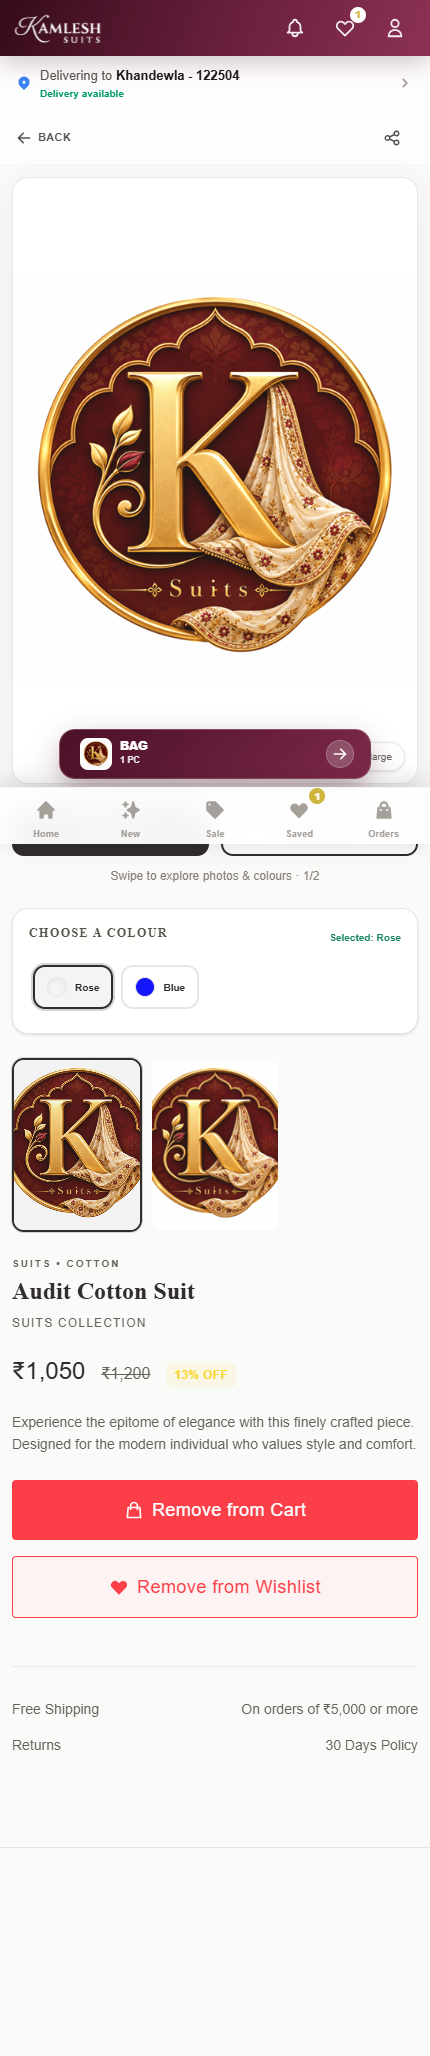
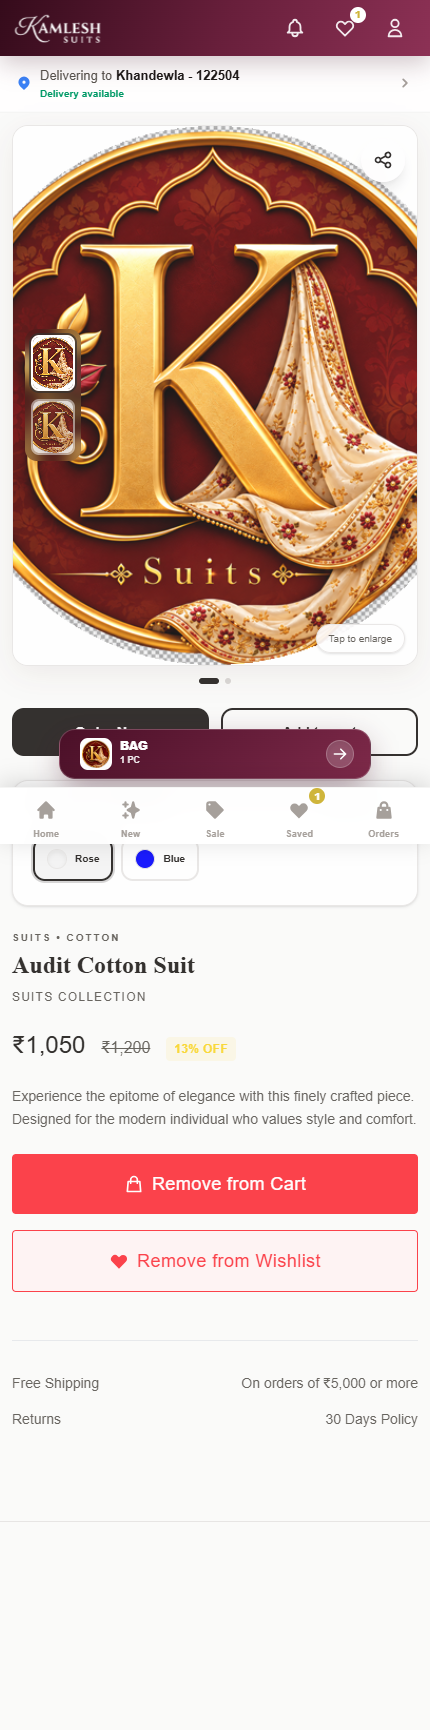
Update branding and mobile product gallery

diff --git a/src/pages/ProductDetails.jsx b/src/pages/ProductDetails.jsx
@@ -139,6 +139,7 @@ const ProductDetailsContent = ({ id }) => {
   };
 
   const galleryItems = getGalleryItems();
+  const activeGalleryIndex = Math.max(0, galleryItems.findIndex(item => item.src === selectedImage));
   const selectGalleryImage = index => {
     const item = galleryItems[index];
     if (!item) return;
@@ -171,7 +172,11 @@ const ProductDetailsContent = ({ id }) => {
   const handleColorSelect = color => {
     const variant = product?.variants?.find(item => item.colorName === color);
     setSelectedColor(color);
-    if (variant?.images?.[0]) setSelectedImage(variant.images[0]);
+    if (variant?.images?.[0]) {
+      const index = galleryItems.findIndex(item => item.src === variant.images[0]);
+      setSelectedImage(variant.images[0]);
+      if (index >= 0) setCurrentImageIndex(index);
+    }
     setColorError('');
   };
 
@@ -319,7 +324,7 @@ const ProductDetailsContent = ({ id }) => {
       {/* --- Top Navigation --- */}
       <div className="relative md:sticky md:top-20 z-30 bg-white/90 backdrop-blur-sm border-b border-stone-100 flex flex-col transition-all">
         <LocationBar className="!bg-transparent border-b border-stone-100/30" />
-        <div className="w-full max-w-7xl mx-auto flex justify-between items-center px-4 py-1 md:py-4">
+        <div className="hidden w-full max-w-7xl mx-auto justify-between items-center px-4 py-4 md:flex">
           <button 
             onClick={() => navigate(-1)} 
             className="flex min-h-11 items-center gap-1.5 text-[11px] md:text-xs font-bold uppercase tracking-wide md:tracking-widest text-secondary hover:text-primary transition-colors"
@@ -343,7 +348,7 @@ const ProductDetailsContent = ({ id }) => {
           <div className="flex flex-col gap-6">
             {/* Main View Container */}
             <div 
-              className="relative flex items-center justify-center overflow-hidden bg-white cursor-zoom-in h-[min(72svh,640px)] md:h-auto md:aspect-[3/4] rounded-2xl border border-stone-200 shadow-[0_8px_30px_rgba(59,31,18,0.08)] max-h-[700px] w-full mx-auto focus-visible:outline focus-visible:outline-2 focus-visible:outline-primary"
+              className="relative flex aspect-[3/4] h-auto items-center justify-center overflow-hidden bg-stone-100 cursor-zoom-in md:aspect-[3/4] rounded-2xl border border-stone-200 shadow-[0_8px_30px_rgba(59,31,18,0.08)] max-h-[700px] w-full mx-auto focus-visible:outline focus-visible:outline-2 focus-visible:outline-primary"
               role="button"
               tabIndex={0}
               aria-label={`Enlarge image of ${product.title}`}
@@ -362,18 +367,61 @@ const ProductDetailsContent = ({ id }) => {
               <img
                 src={selectedImage || product.image || product.images?.[0]}
                 alt={product.title}
-                className="w-full h-full object-contain object-center"
+                className="h-full w-full object-cover object-center"
                 loading="eager"
                 fetchPriority="high"
               />
+              <div className="absolute right-3 top-3 z-10 flex items-center gap-2 md:hidden">
+                {shareStatus && <span className="rounded-full bg-black/65 px-2.5 py-1.5 text-[10px] font-bold text-white backdrop-blur-md" role="status" aria-live="polite">{shareStatus}</span>}
+                <button
+                  type="button"
+                  onClick={event => { event.stopPropagation(); handleShare(); }}
+                  className="grid min-h-11 min-w-11 place-items-center rounded-full border border-white/70 bg-white/90 text-primary shadow-lg backdrop-blur-md"
+                  aria-label={`Share ${product.title}`}
+                  title="Share product"
+                >
+                  <HiOutlineShare className="text-xl" />
+                </button>
+              </div>
+              {galleryItems.length > 1 && (
+                <div className="absolute left-3 top-1/2 z-10 flex max-h-[78%] -translate-y-1/2 flex-col gap-2 overflow-y-auto rounded-xl bg-black/20 p-1.5 backdrop-blur-sm md:hidden" aria-label="Product photos">
+                  {galleryItems.slice(0, 5).map((item, index) => (
+                    <button
+                      key={item.id}
+                      type="button"
+                      onClick={event => { event.stopPropagation(); selectGalleryImage(index); }}
+                      className={`relative h-14 w-11 shrink-0 overflow-hidden rounded-lg border-2 shadow-md transition ${activeGalleryIndex === index ? 'border-white ring-2 ring-primary/70' : 'border-white/60 opacity-80'}`}
+                      aria-label={`Show product photo ${index + 1} of ${galleryItems.length}`}
+                      aria-current={activeGalleryIndex === index ? 'true' : undefined}
+                    >
+                      <img src={item.src} alt="" className="h-full w-full object-cover" />
+                      {index === 4 && galleryItems.length > 5 && <span className="absolute inset-0 grid place-items-center bg-black/55 text-xs font-black text-white">+{galleryItems.length - 5}</span>}
+                    </button>
+                  ))}
+                </div>
+              )}
               <span className="pointer-events-none absolute bottom-3 right-3 rounded-full border border-stone-200 bg-white/90 px-3 py-1.5 text-[10px] font-medium text-stone-600 shadow-sm">Tap to enlarge</span>
             </div>
+
+            {galleryItems.length > 1 && (
+              <div className="-mt-3 flex items-center justify-center gap-1.5 md:hidden" aria-label={`Product photo ${activeGalleryIndex + 1} of ${galleryItems.length}`}>
+                {galleryItems.map((item, index) => (
+                  <button
+                    key={`dot-${item.id}`}
+                    type="button"
+                    onClick={() => selectGalleryImage(index)}
+                    className={`h-1.5 rounded-full transition-all ${activeGalleryIndex === index ? 'w-5 bg-primary' : 'w-1.5 bg-stone-300'}`}
+                    aria-label={`Show product photo ${index + 1}`}
+                    aria-current={activeGalleryIndex === index ? 'true' : undefined}
+                  />
+                ))}
+              </div>
+            )}
 
             <div className="grid grid-cols-2 gap-3 md:hidden">
               <button type="button" onClick={() => purchase(true)} className="min-h-12 rounded-xl bg-primary px-3 py-3 text-sm font-bold text-white">Order Now</button>
               <button type="button" onClick={() => purchase()} className="min-h-12 rounded-xl border-2 border-primary px-3 py-3 text-sm font-bold text-primary">Add to cart</button>
             </div>
-            {galleryItems.length > 1 && <p className="-mt-3 text-center text-xs text-stone-500 md:hidden">Swipe to explore photos & colours · {Math.max(0, galleryItems.findIndex(item => item.src === selectedImage)) + 1}/{galleryItems.length}</p>}
             {colorError && !availableColors.length && <p role="alert" className="text-sm text-red-600">{colorError}</p>}
 
             {availableColors.length > 0 && (
@@ -389,7 +437,7 @@ const ProductDetailsContent = ({ id }) => {
             )}
 
             {/* Thumbnails Grid (3 Boxes) */}
-            <div className="grid grid-cols-3 gap-2 sm:gap-4">
+            <div className="hidden grid-cols-3 gap-2 sm:gap-4 md:grid">
               {galleryItems.slice(0, 3).map((item, index) => {
                 const isLast = index === 2 && galleryItems.length > 3;
                 return (

diff --git a/public/sw.js b/public/sw.js
@@ -1,4 +1,4 @@
-const CACHE_VERSION = 'kamlesh-suits-v7';
+const CACHE_VERSION = 'kamlesh-suits-v8';
 const APP_SHELL_CACHE = `${CACHE_VERSION}-shell`;
 const RUNTIME_CACHE = `${CACHE_VERSION}-runtime`;
 const APP_SHELL = [
@@ -11,10 +11,11 @@ const APP_SHELL = [
   '/icons/pwa-192.png',
   '/icons/pwa-512.png',
   '/icons/pwa-maskable-512.png',
-  '/icons/apple-touch-icon.png?v=20260910',
-  '/icons/pwa-192.png?v=20260910',
-  '/icons/pwa-512.png?v=20260910',
-  '/icons/pwa-maskable-512.png?v=20260910',
+  '/icons/notification-badge-96.png',
+  '/icons/apple-touch-icon.png?v=20260911',
+  '/icons/pwa-192.png?v=20260911',
+  '/icons/pwa-512.png?v=20260911',
+  '/icons/pwa-maskable-512.png?v=20260911',
 ];
 
 self.addEventListener('install', event => {
@@ -82,8 +83,8 @@ self.addEventListener('push', event => {
   const title = payload.title || 'Kamlesh Suits';
   const options = {
     body: payload.body || 'There is a new update from Kamlesh Suits.',
-    icon: '/icons/pwa-192.png',
-    badge: '/icons/favicon-48.png',
+    icon: '/icons/pwa-192.png?v=20260911',
+    badge: '/icons/notification-badge-96.png',
     image: payload.image || undefined,
     vibrate: [300, 120, 300, 120, 600],
     tag: payload.tag || 'kamlesh-suits',

diff --git a/index.html b/index.html
@@ -3,9 +3,9 @@
 
 <head>
   <meta charset="UTF-8" />
-  <link rel="icon" type="image/png" sizes="32x32" href="/icons/favicon-32.png" />
-  <link rel="icon" type="image/png" sizes="48x48" href="/icons/favicon-48.png" />
-  <link rel="apple-touch-icon" sizes="180x180" href="/icons/apple-touch-icon.png?v=20260910" />
+  <link rel="icon" type="image/png" sizes="32x32" href="/icons/favicon-32.png?v=20260911" />
+  <link rel="icon" type="image/png" sizes="48x48" href="/icons/favicon-48.png?v=20260911" />
+  <link rel="apple-touch-icon" sizes="180x180" href="/icons/apple-touch-icon.png?v=20260911" />
   <link rel="manifest" href="/manifest.webmanifest" />
   <link rel="me" href="https://www.instagram.com/kamleshsuits/" />
   <meta name="viewport" content="width=device-width, initial-scale=1, viewport-fit=cover" />
